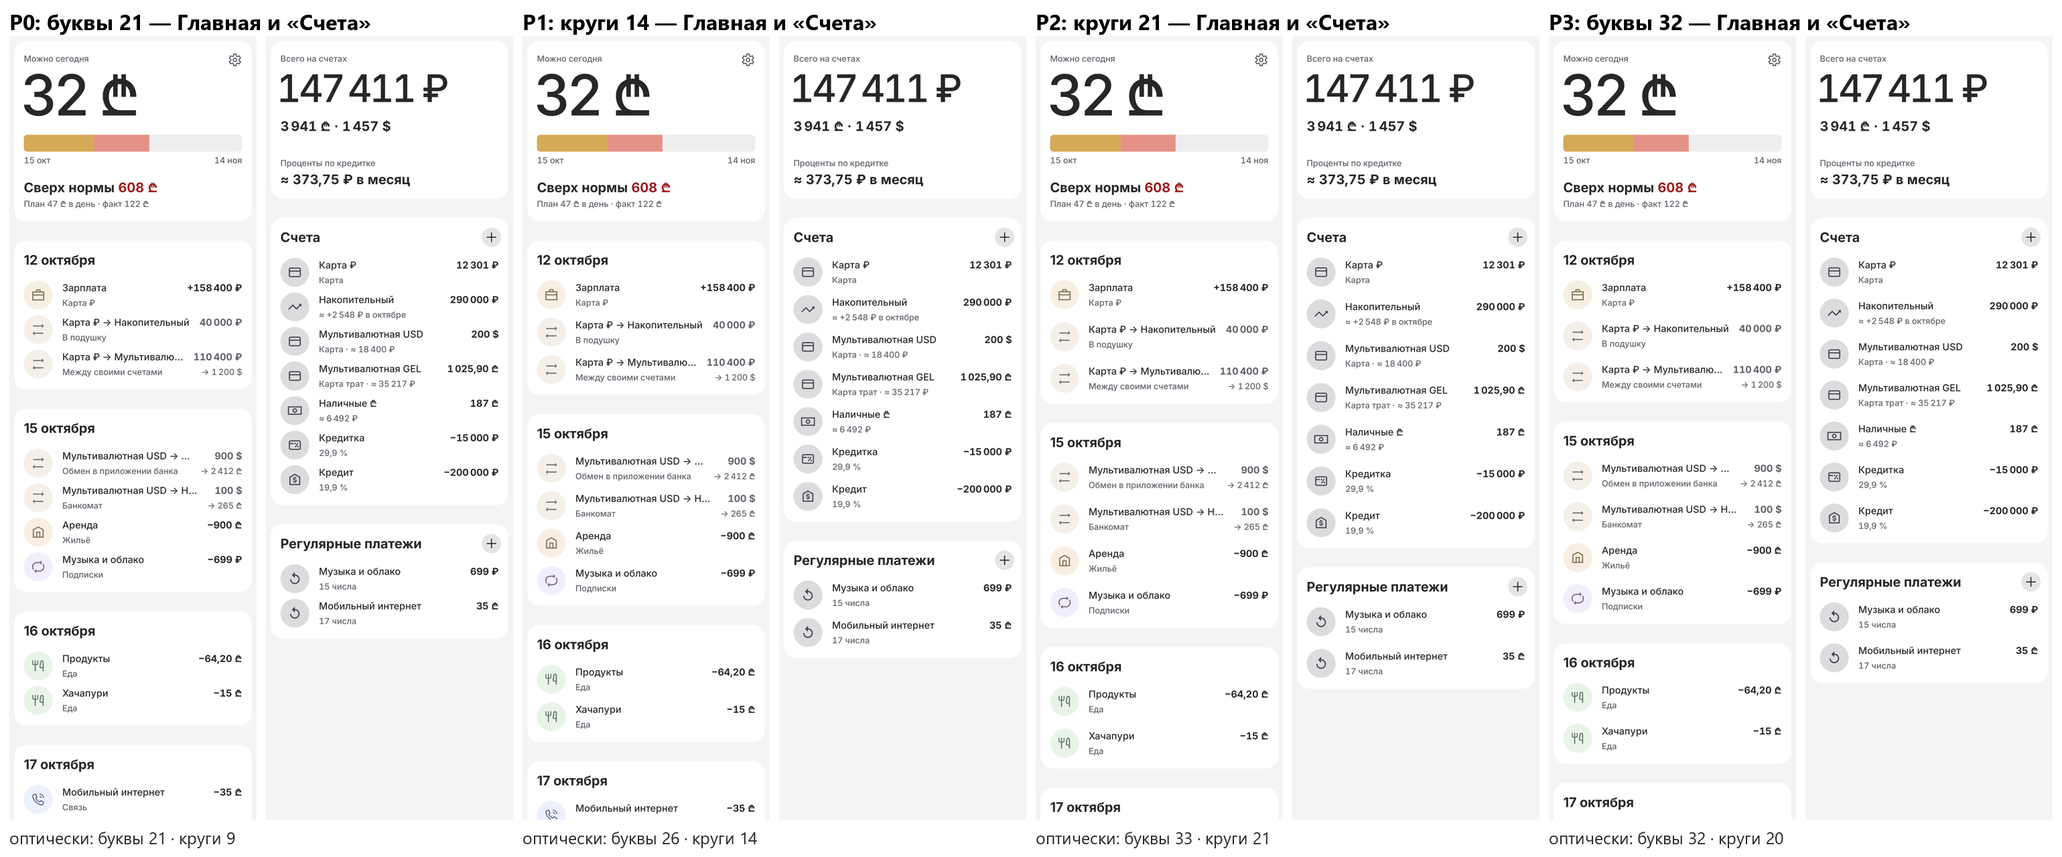
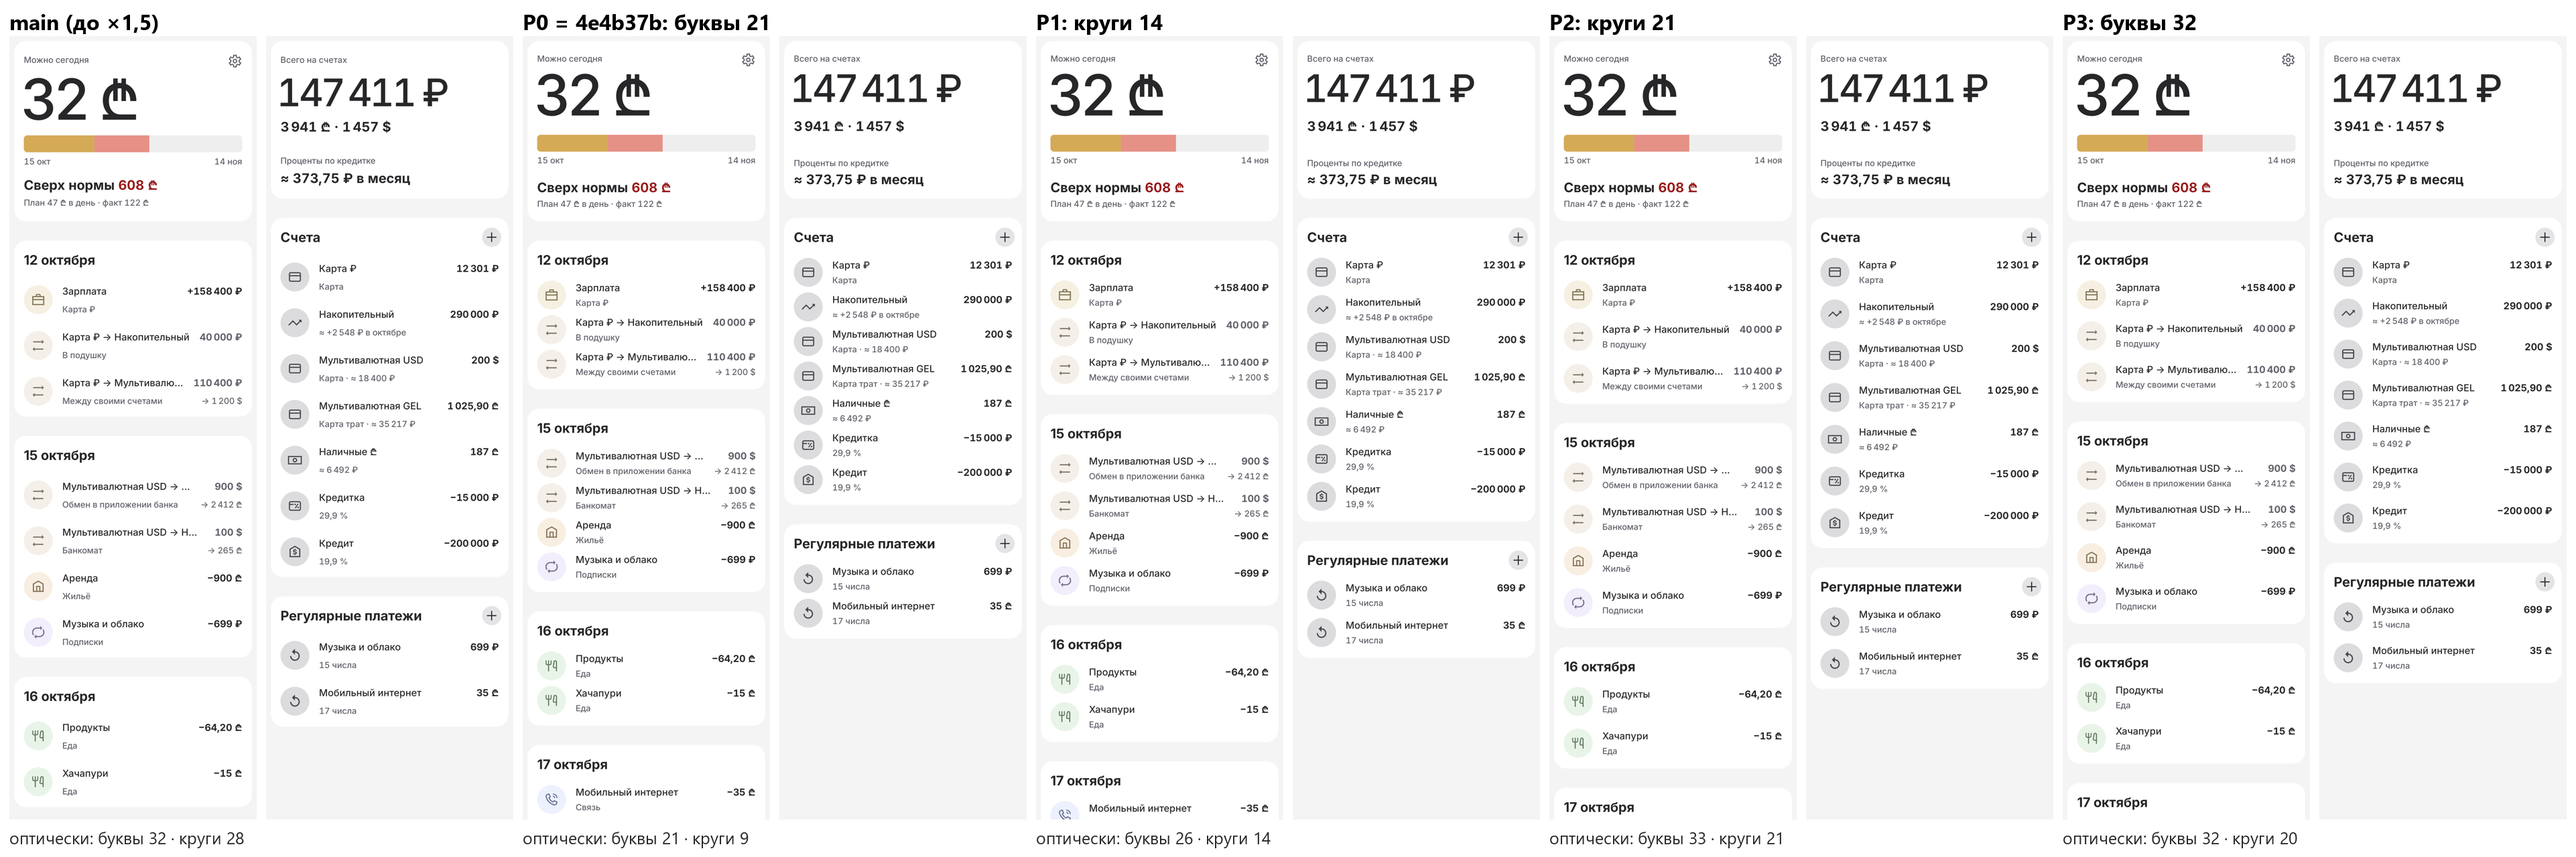
Tasks: the row-gap sheet opens with main, before the x1.5 row

diff --git a/docs/tasks/screen-rhythm.md b/docs/tasks/screen-rhythm.md
@@ -37,7 +37,8 @@
 - Замер подтвердил: круг 48 выше пары строк по буквам (≈ 36) и выступает на ≈ 6 сверху и снизу; при буквах 21 между
   кругами соседних строк ≈ 9. Глаз читает тесноту по кругам.
 - Кадр `rowgap-compare_golda_light_roomy.png` (Главная и «Счета», «Просторно»), оптически:
-  - Р0 (как сейчас): буквы 21 · круги 9;
+  - main (до ×1,5, слева — «до»): буквы 32 · круги 28;
+  - Р0 (как сейчас, 4e4b37b): буквы 21 · круги 9;
   - Р1 (круг ↔ круг 14): буквы 26 · круги 14;
   - Р2 (круг ↔ круг 21): буквы 33 · круги 21;
   - Р3 (буквы 32): буквы 32 · круги 20.
@@ -45,6 +46,7 @@
   ближе друг к другу, чем заголовок карточки к первой строке (32), — иерархия «заголовок → строки» цела. В Р2 строки
   разъезжаются дальше, чем заголовок от них (33 > 32), в Р3 сравниваются с ним — карточка распадается на отдельные
   строки. Правило для кода: «строка ↔ строка — от края значка до края значка, шаг 14; без значка — от букв, 21».
+- Правило пользователя для всех кадров: «Всегда нужно до-после» — «до» рядом, в той же теме, плотности и кадрировке.
 - Временный `LocalRowGap` в `ui/Kit.kt` (null в приложении) и `RowGapPreviewTest`, исключён из pitest.
 
 ## Аудит (кадр `screen-rhythm/compare_golda_light_roomy.png`: сейчас и по правилам, цвет по ролям; «Просторно»)
